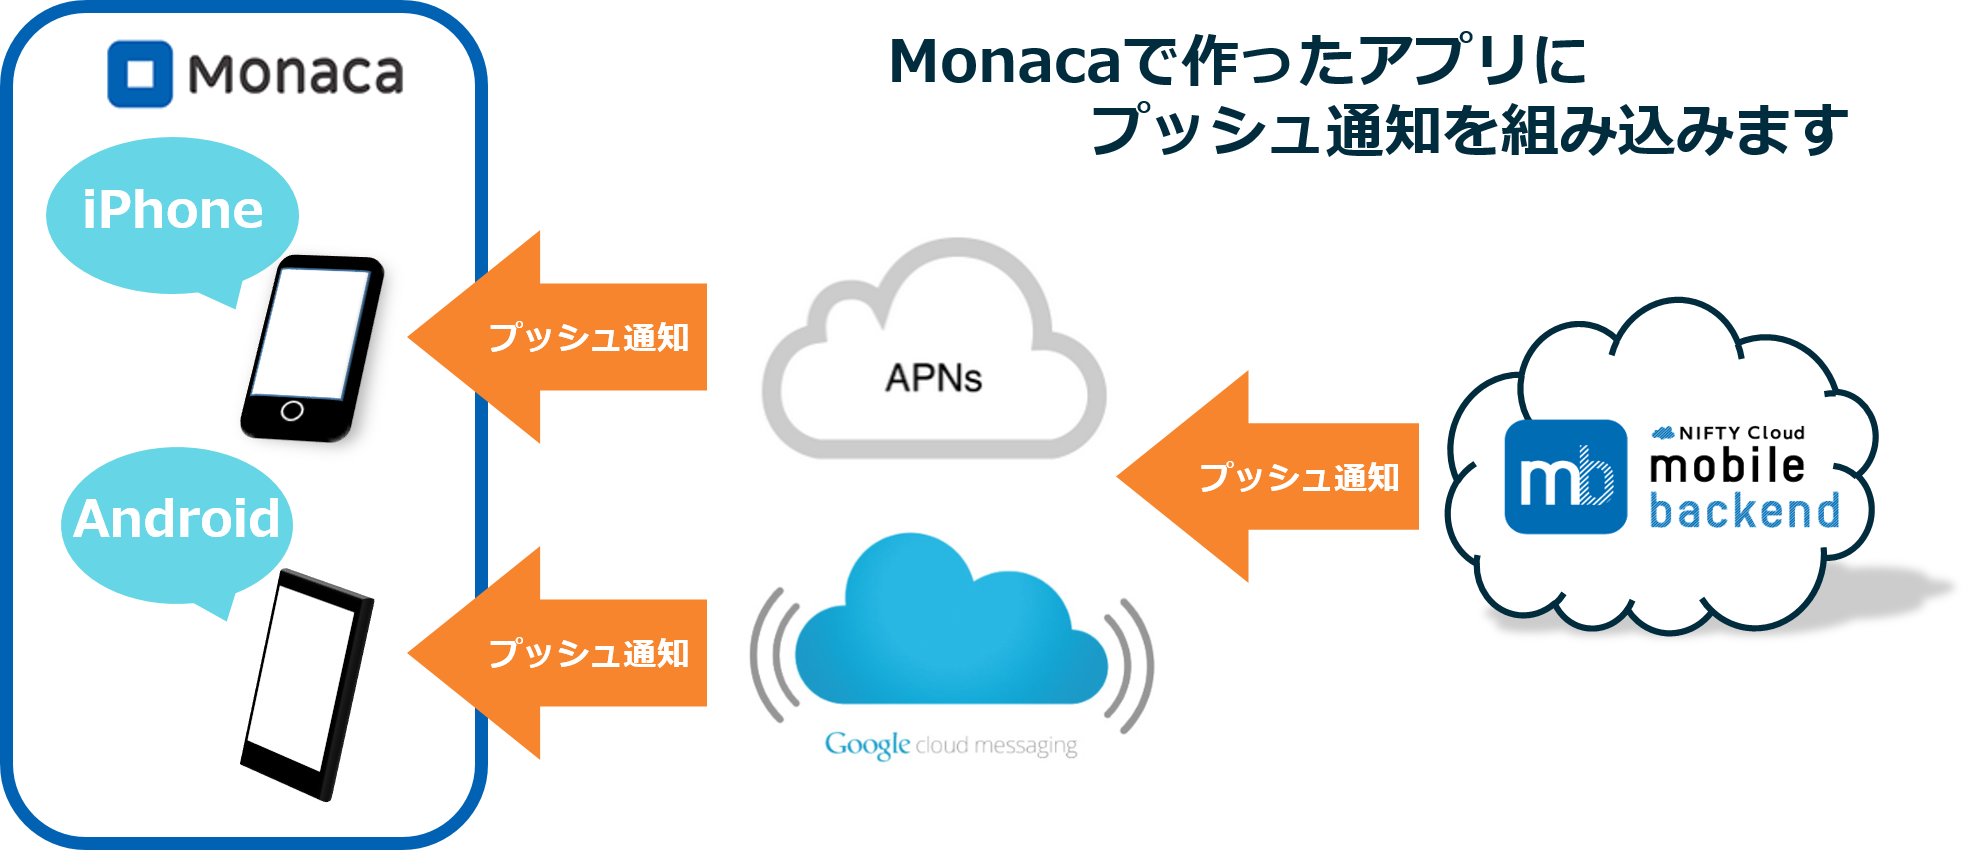
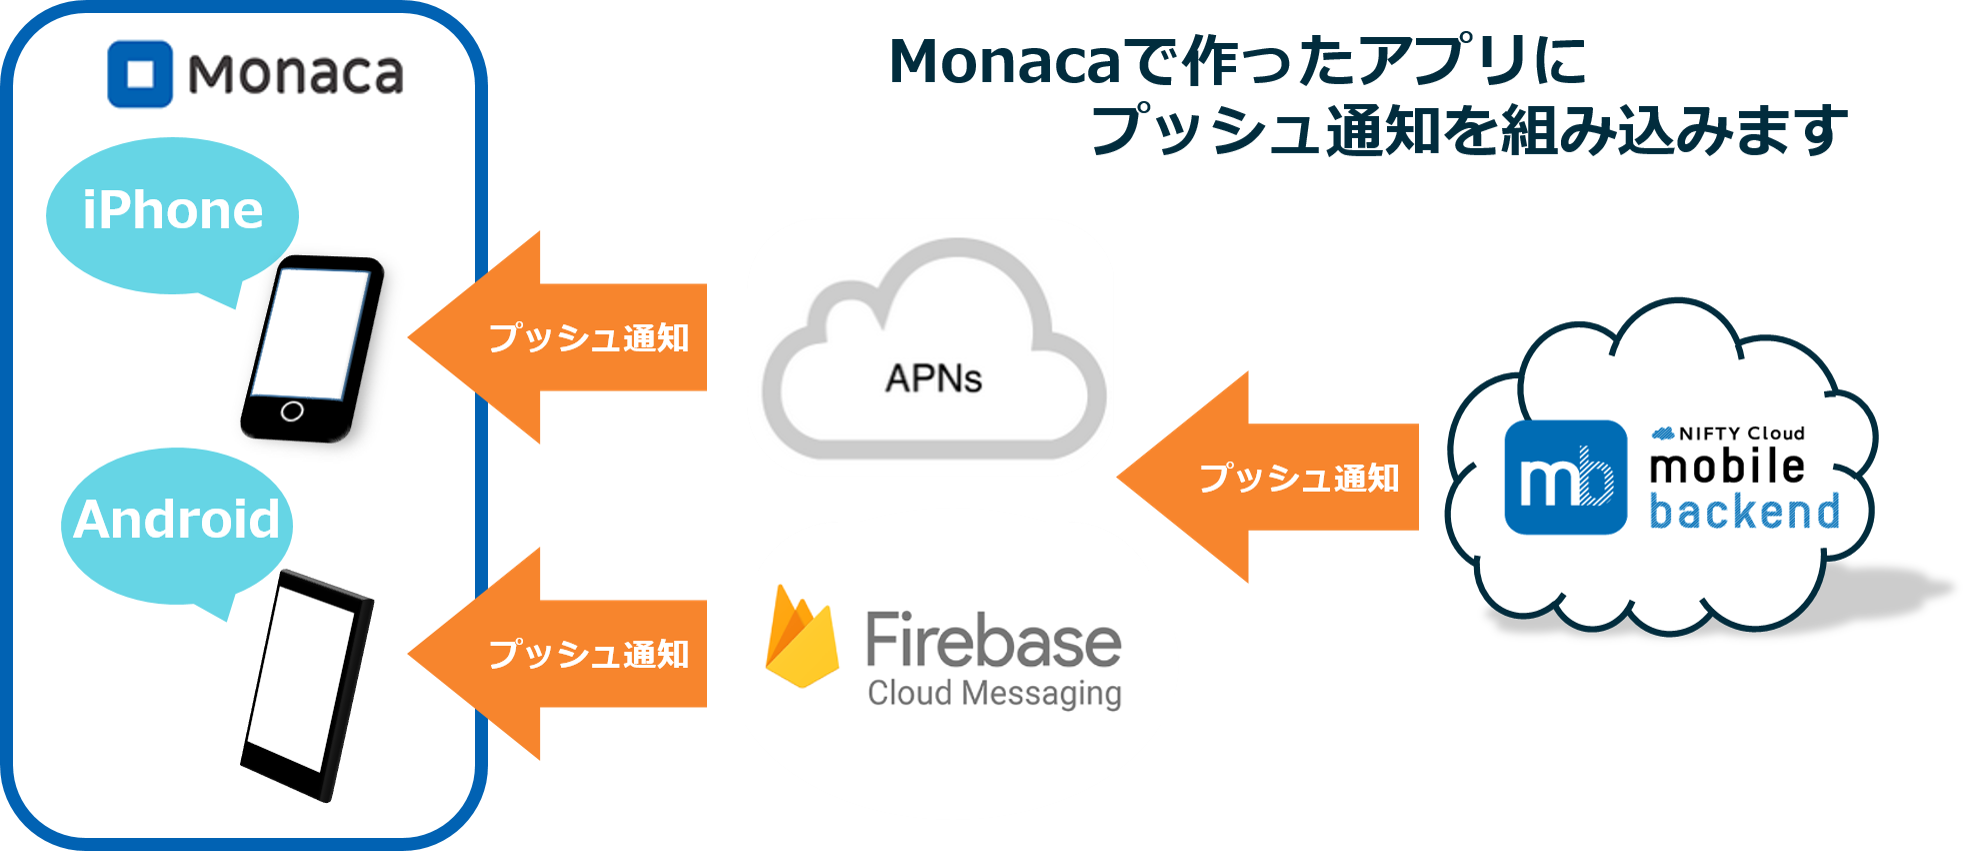
update GCM to FCM
・ドキュメント修正
・画像修正/削除
・コード修正

diff --git a/www/index.html b/www/index.html
@@ -13,7 +13,7 @@
             window.NCMB.monaca.setDeviceToken(
                 "YOUR_NCMB_APPLICATIONKEY",
                 "YOUR_NCMB_CLIENTKEY",
-                "PROJECT_NUMBER(Android_only)"
+                "YOUR_FCM_SENDER_ID"
             );
         },false);
     </script>

diff --git a/README.md b/README.md
@@ -36,7 +36,7 @@
 
 ## プッシュ通知の仕組み
 * ニフティクラウドmobile backendのプッシュ通知は、各プラットフォームが提供している通知サービスを利用しています
- * Androidの通知サービス __GCM（Google Cloud Messaging）__
+ * Androidの通知サービス __FCM（Firebase Cloud Messaging）__
 
  ![画像a1](/readme-img/a001.png)
 
@@ -44,7 +44,7 @@
 
  ![画像i1](/readme-img/i001.png)
 
-* 上図のように、アプリ（Monaca）・サーバー（ニフティクラウドmobile backend）・通知サービス（GCMあるいはAPNs）の間で認証が必要になります
+* 上図のように、アプリ（Monaca）・サーバー（ニフティクラウドmobile backend）・通知サービス（FCMあるいはAPNs）の間で認証が必要になります
  * 認証に必要な鍵や証明書の作成は作業手順の「0.プッシュ通知機能使うための準備」で行います
 
 ## 作業の手順
@@ -52,24 +52,9 @@
 * 動作確認を行う端末に応じて該当する内容を準備してください
 
 #### Android端末で動作確認をする場合
-* Google Cloud Platform にログインします　https://console.cloud.google.com/
-* GCMを利用するためプロジェクトを作成し、APIキー（認証用の鍵）を発行します
-
-![画像a2](/readme-img/a002.png)
-
-![画像a3](/readme-img/a003.png)
-
-![画像a4](/readme-img/a004.png)
-
-* プロジェクトコードの確認をします
- 
-![画像a5](/readme-img/a005.png)
-
-* GCMの有効化の設定をします
-
-![画像a6](/readme-img/a006.png)
-
-* Android端末で動作確認をする場合の準備は以上です
+* ニフティクラウド mobile backendと連携させるためのAPIキー(サーバーキー)と端末情報の登録処理時に必要なSender ID(送信者ID)を取得する必要があります
+* 下記リンク先のドキュメントを参考に、FCMプロジェクトの作成とAPIキー・Sender IDの取得を行ってください
+ * __[mobile backendとFCMの連携に必要な設定](https://github.com/NIFTYCloud-mbaas/ncmb_doc/blob/hotfix/fcm_changes/doc/current/tutorial/push_setup_android.html)__
 
 #### iOS端末で動作確認をする場合
 * Android端末と違い、作業が少し複雑です
@@ -99,7 +84,7 @@
 * ②開発用証明書(.cer)を作成します　※初回利用時のみ
  * __注意__：開発用証明書(.cer)ファイルは既に作成したものがあれば、新しく作成しないでください！必ず既存のものを使用します。複数作成してしまうとファイル名が同じであるため区別できなくなり失敗につながる恐れがあります。
 * 「Certificates」＞「All」＞右上の「＋」をクリックして、「iOS App Development」にチェックをいれます
- 
+
 ![画像i6](/readme-img/i006.png)
 ![画像i7](/readme-img/i007.png)
 ![画像i8](/readme-img/i008.png)
@@ -164,7 +149,7 @@
 * キーチェーンアクセスを開きます
 * ⑥で作成した「APNs用証明書(.cer)」をダブルクリックしてキーチェーンアクセスを開きます
 * 三角のアイコンをクリックして、開きます
- * 重要：証明書と秘密鍵を別々にする必要があります！ 
+ * 重要：証明書と秘密鍵を別々にする必要があります！
 
 ![画像i27](/readme-img/i027.png)
 ![画像i28](/readme-img/i028.png)
@@ -207,13 +192,12 @@
 ### 3. APIキーの設定
 
 * `index.html`を編集します
-* 先程[ニフティクラウドmobile backend](http://mb.cloud.nifty.com/)のダッシュボード上で確認したAPIキーを貼り付けます
-* Android端末で動作確認をする場合はプロジェクト番号も貼り付けます
+* `YOUR_NCMB_APPLICATION_KEY`と`YOUR_NCMB_CLIENT_KEY`の部分を、先程[ニフティクラウドmobile backend](http://mb.cloud.nifty.com/)のダッシュボード上で確認したAPIキーに書き換えます
+* また、Android端末で動作確認をする場合は、`YOUR_FCM_SENDER_ID`をFCMでプロジェクト作成時に発行されたSender ID(送信者ID)に書き換えます
 
 ![画像07](/readme-img/007.png)
 
-* それぞれ`YOUR_NCMB_APPLICATION_KEY`と`YOUR_NCMB_CLIENT_KEY`の部分を書き換えます（Android端末で動作確認をする場合は`PROJECT_NUMBER(Android_only)`も）
- * このとき、ダブルクォーテーション（`"`）を消さないように注意してください！
+* このとき、ダブルクォーテーション（`"`）を消さないように注意してください！
 * 書き換え終わったら「保存」をクリックして保存をします
 
 ![画像11](/readme-img/011.png)
@@ -221,13 +205,13 @@
 ### 4. 実機ビルド
 * 動作確認を行う端末に応じて該当する作業を行ってくださ
 
-#### Android端末で動作確認をする場合 
+#### Android端末で動作確認をする場合
 * 「ビルド」＞「Androidアプリのビルド」をクリックして、Androidアプリケーションのビルドを開きます
 * ｢デバッグビルド｣を選択して｢次へ｣をクリックします
 * 少し待つとビルドが完了します
 * 任意の方法で端末にインストールをしてください
 
-#### iOS端末で動作確認をする場合 
+#### iOS端末で動作確認をする場合
 * 「設定」＞「iOSビルド設定...」をクリックして、iOSビルド設定を開きます
 * ⑦開発用証明書(秘密鍵.p12)と②開発用み証明書(.cer)を設定します
 
@@ -292,13 +276,13 @@ document.addEventListener("deviceready", function(){
             window.NCMB.monaca.setDeviceToken(
                 "YOUR_NCMB_APPLICATIONKEY",
                 "YOUR_NCMB_CLIENTKEY",
-                "PROJECT_NUMBER(Android_only)"
+                "YOUR_FCM_SENDER_ID"
             );
         },false);
 ```
 
-* 「YOUR_NCMB_APPLICATIONKEY」、「YOUR_NCMB_CLIENTKEY」はmobile backendのダッシュボードのアプリケーションキー、クライアントキーにそれぞれ書き換えてください
-* 【Androidのみ】「PROJECT_NUMBER(Android_only)」はGCMのプロジェクト番号に書き換えてください
+* 「`YOUR_NCMB_APPLICATIONKEY`」、「`YOUR_NCMB_CLIENTKEY`」はmobile backendのダッシュボードのアプリケーションキー、クライアントキーにそれぞれ書き換えてください
+* Android端末で動作確認を行う場合は、「`YOUR_FCM_SENDER_ID`」をFCMでプロジェクト作成時に発行されたSenderID(送信者ID)に書き換えてください
 
 
 ## 参考
